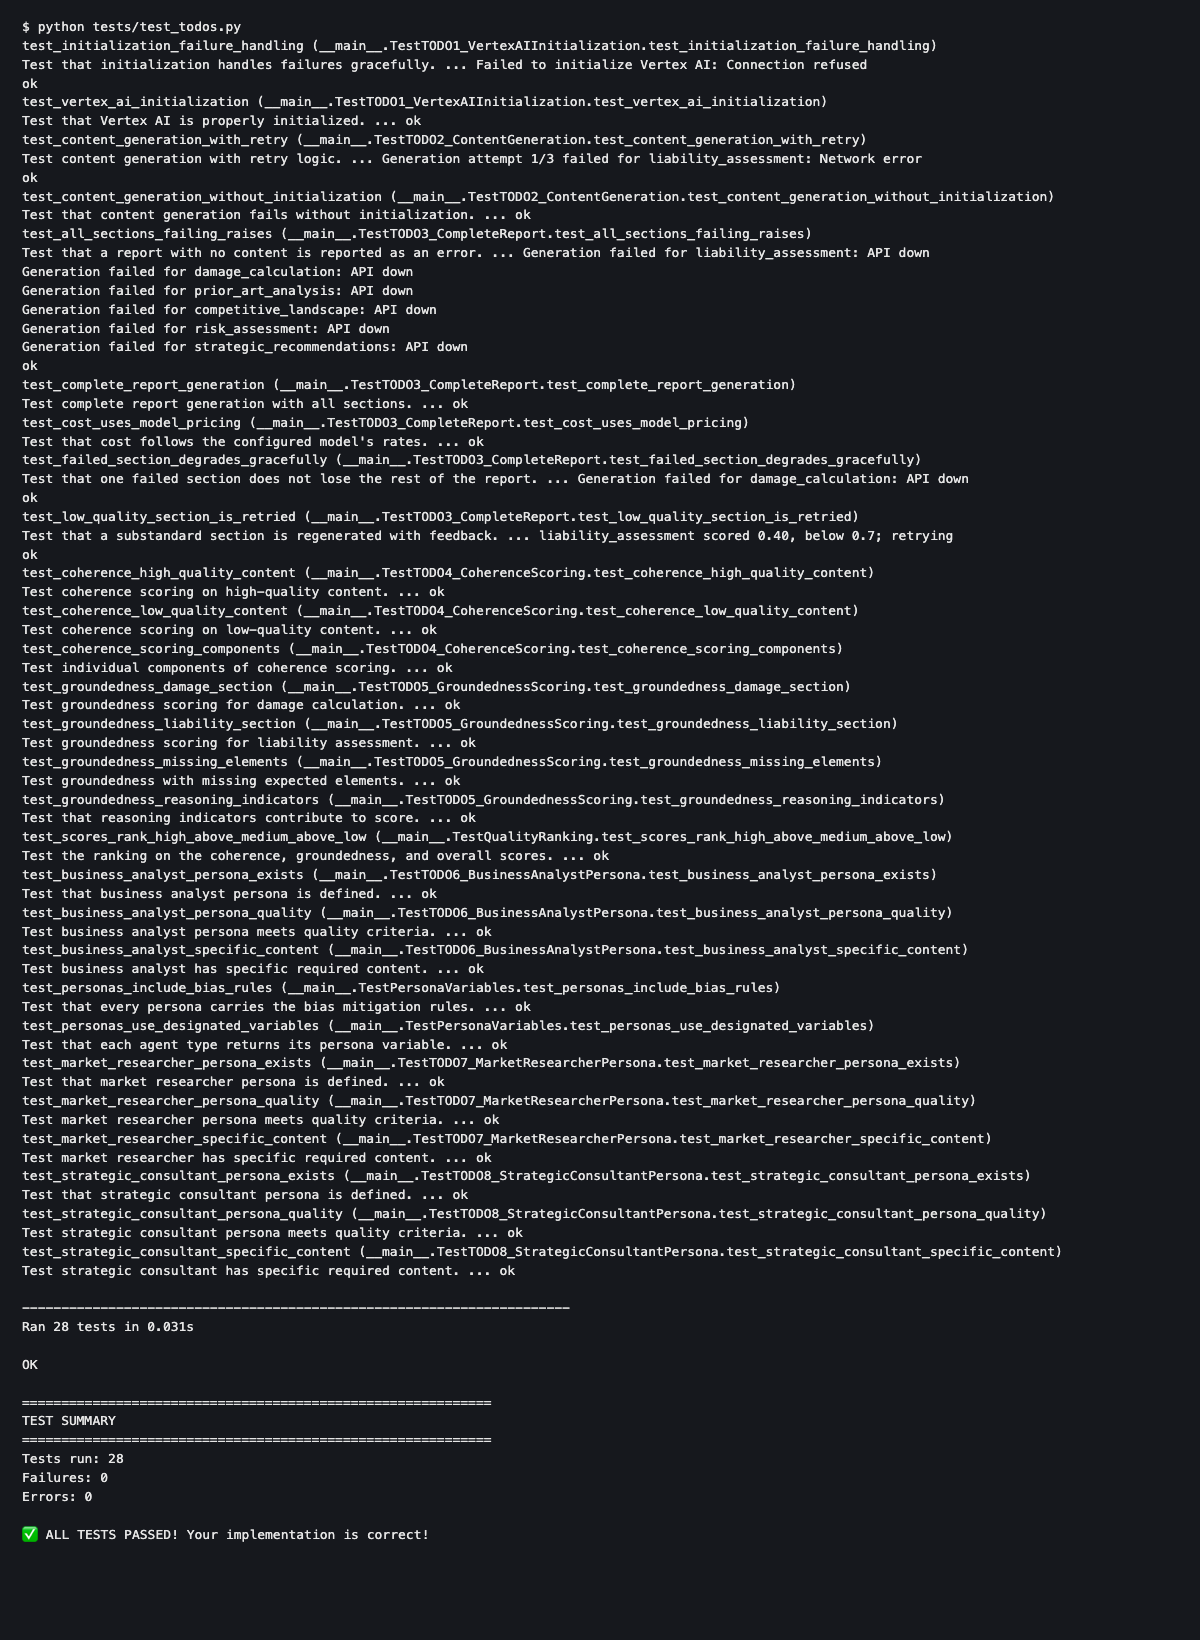
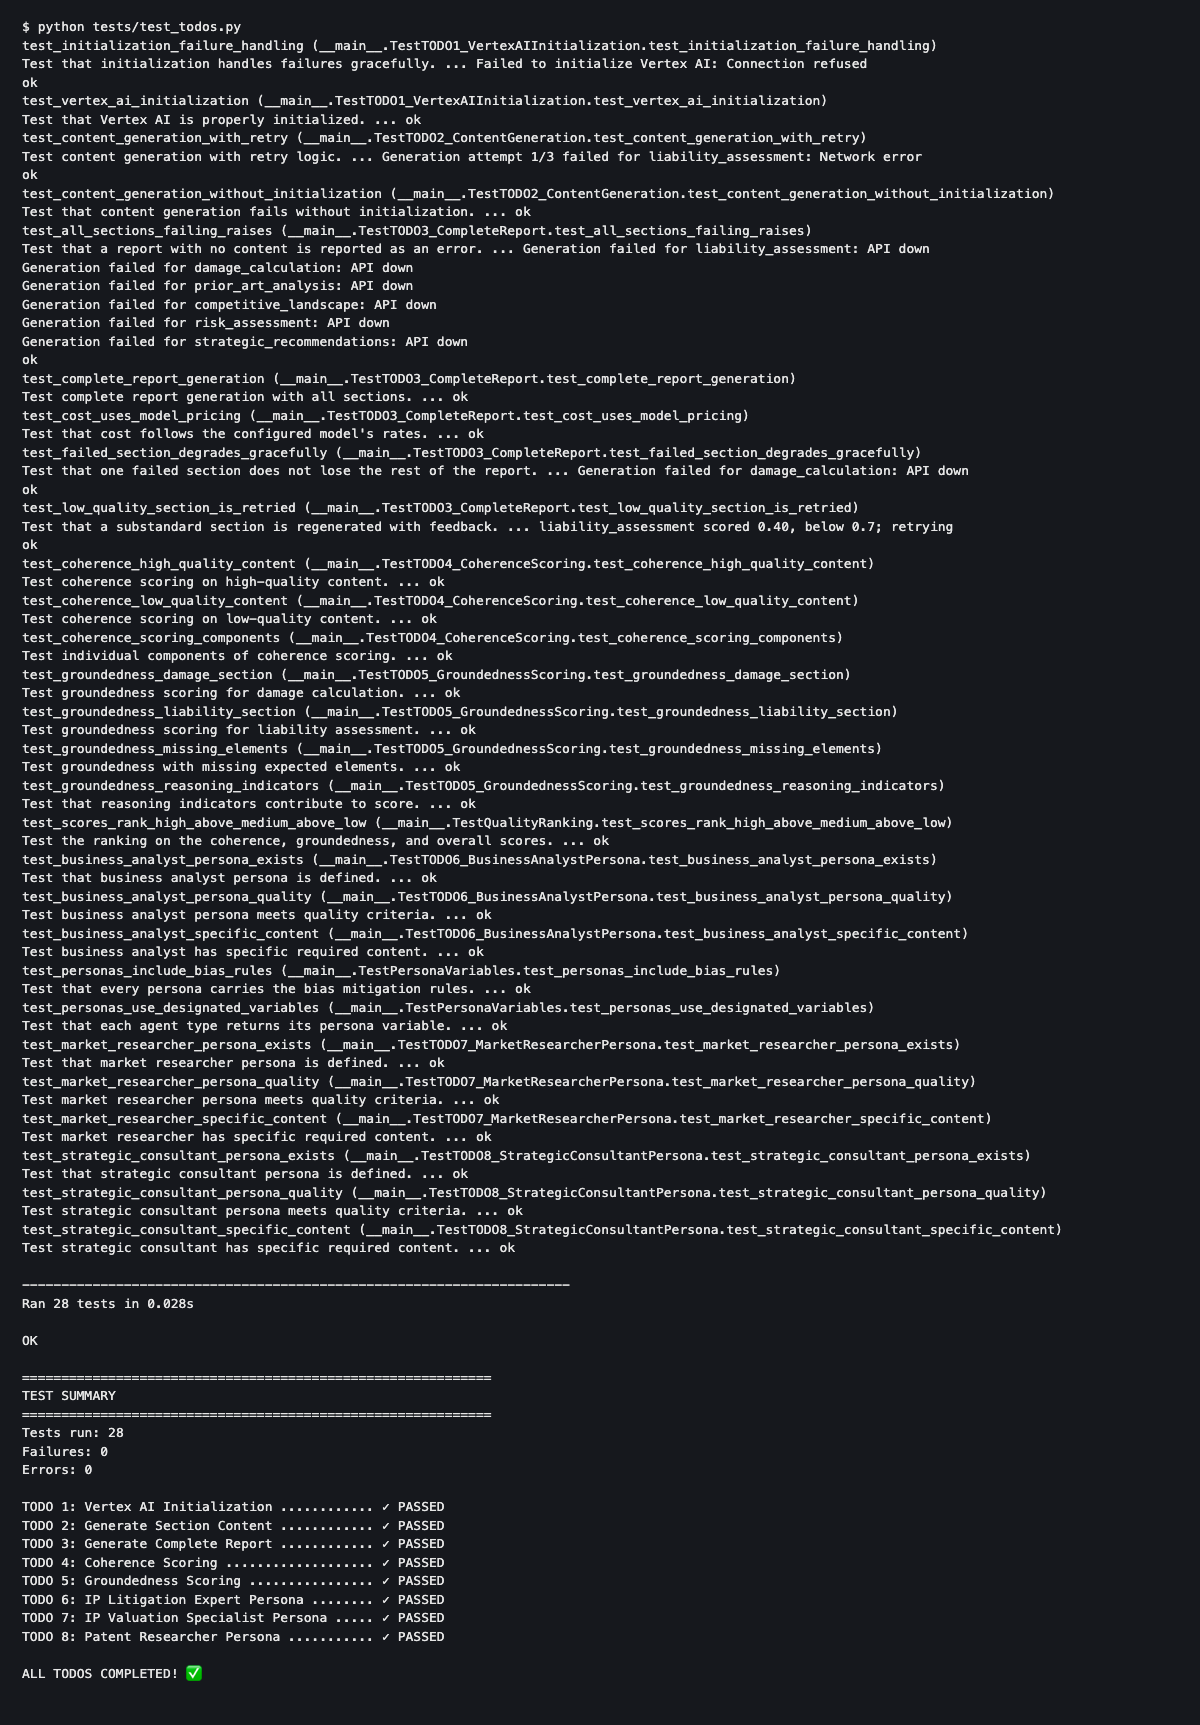
Print per-TODO test summary from the instructions
Report each TODO as PASSED or FAILED after the test run, and refresh the
test screenshot to show the new output.

Changed region(s): [[0.0, 0.0, 0.8633, 0.9951], [0.7092, 0.0, 0.74, 0.0311]]

diff --git a/legal-intelligence/starter/tests/test_todos.py b/legal-intelligence/starter/tests/test_todos.py
@@ -710,8 +710,26 @@ def run_tests():
     print(f"Failures: {len(result.failures)}")
     print(f"Errors: {len(result.errors)}")
 
+    # Print per-TODO status (shared test classes count toward each TODO they cover)
+    todo_checks = [
+        ("TODO 1: Vertex AI Initialization", [TestTODO1_VertexAIInitialization]),
+        ("TODO 2: Generate Section Content", [TestTODO2_ContentGeneration]),
+        ("TODO 3: Generate Complete Report", [TestTODO3_CompleteReport]),
+        ("TODO 4: Coherence Scoring", [TestTODO4_CoherenceScoring, TestQualityRanking]),
+        ("TODO 5: Groundedness Scoring", [TestTODO5_GroundednessScoring, TestQualityRanking]),
+        ("TODO 6: IP Litigation Expert Persona", [TestTODO6_BusinessAnalystPersona, TestPersonaVariables]),
+        ("TODO 7: IP Valuation Specialist Persona", [TestTODO7_MarketResearcherPersona, TestPersonaVariables]),
+        ("TODO 8: Patent Researcher Persona", [TestTODO8_StrategicConsultantPersona, TestPersonaVariables]),
+    ]
+    failed_classes = {type(test) for test, _ in result.failures + result.errors}
+
+    print()
+    for label, classes in todo_checks:
+        status = "✗ FAILED" if failed_classes.intersection(classes) else "✓ PASSED"
+        print(f"{label} {'.' * (44 - len(label))} {status}")
+
     if result.wasSuccessful():
-        print("\n✅ ALL TESTS PASSED! Your implementation is correct!")
+        print("\nALL TODOS COMPLETED! ✅")
     else:
         print("\n❌ SOME TESTS FAILED. Review the errors above.")
 
